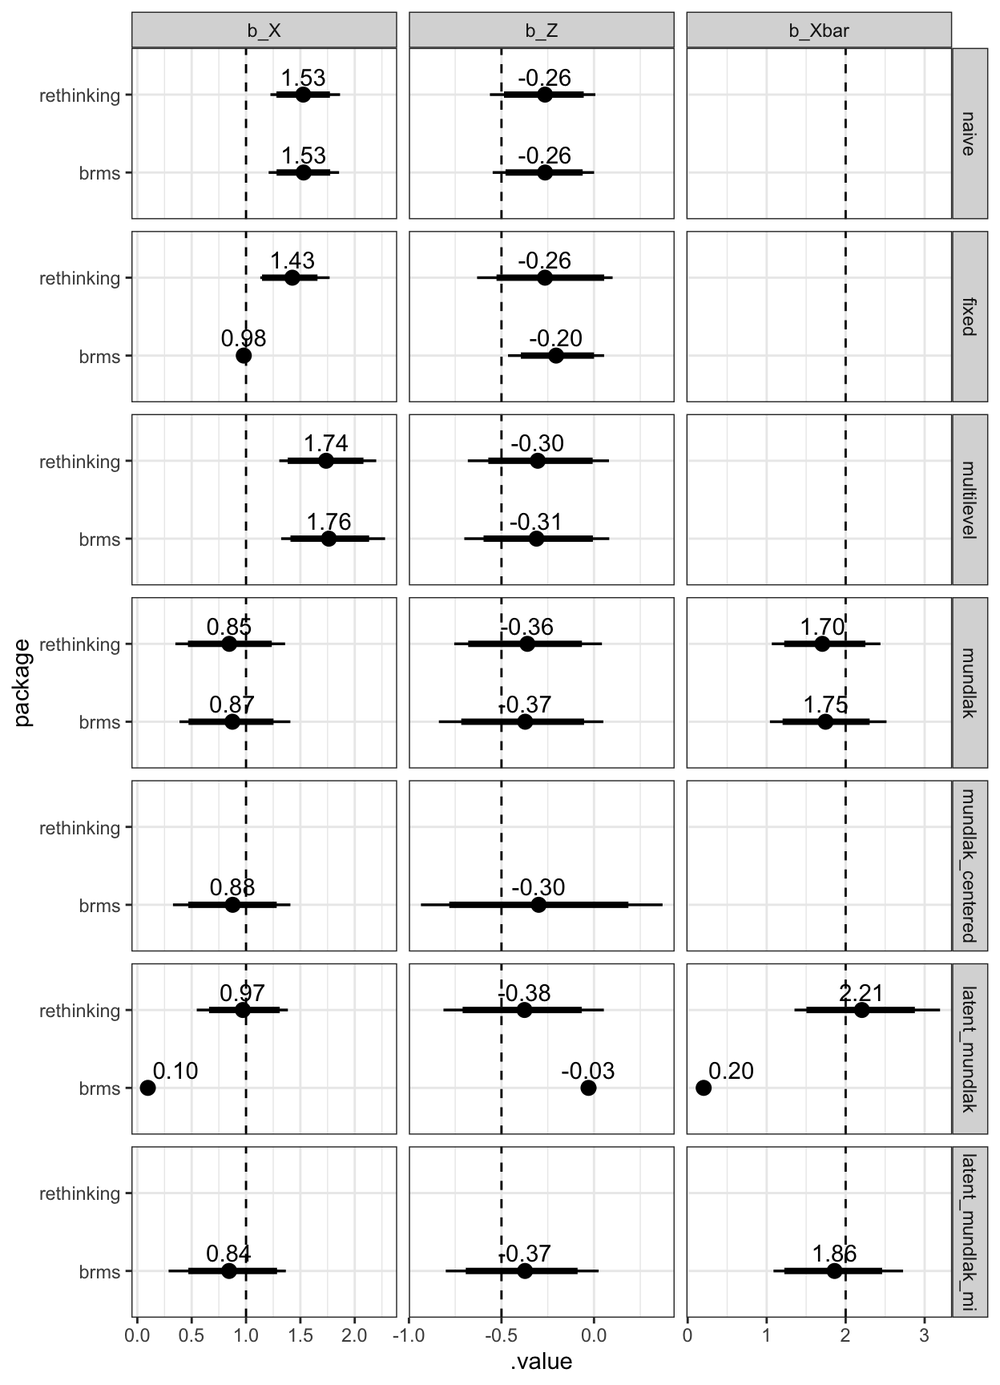
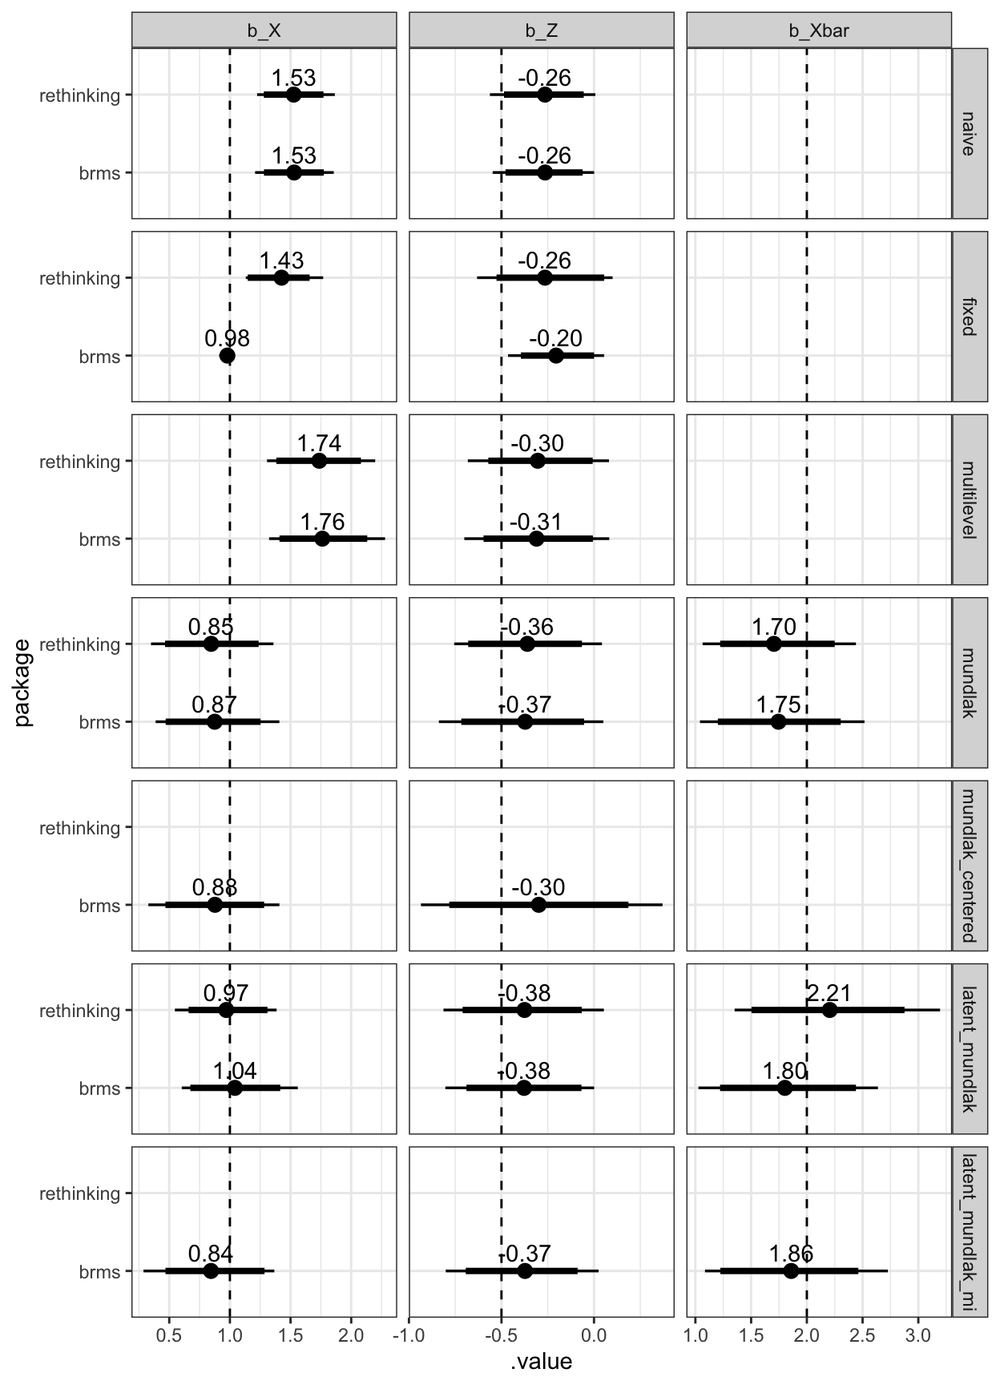
update with fixed `me` and `mi` for bernoulli exposure

diff --git a/_posts/2023-03-11-latent-group-mean-centering-revisited/latent-group-mean-centering-revisited.html b/_posts/2023-03-11-latent-group-mean-centering-revisited/latent-group-mean-centering-revisited.html
@@ -1580,23 +1580,31 @@ Show code
 </div>
 <a href="https://en.wikipedia.org/wiki/Yair_Mundlak">Yair Mundlak</a><a href="#fn4" class="footnote-ref" id="fnref4" role="doc-noteref"><sup>4</sup></a> in his Full Luxury Bayes outfit, courtesy of DALL-E.
 </aside>
-<p>My attempt at a solution:</p>
+<p>My two attempts at a solution:</p>
+<p>Using <code>me()</code></p>
+<ol type="1">
+<li>Calculate the group mean <code>Xbar</code>, e.g. <code>df %&gt;% group_by(id) %&gt;% mutate(Xbar = mean(X))</code>.</li>
+<li>Calculate the standard error of the mean , e.g. <code>df %&gt;% group_by(id) %&gt;% mutate(Xse = sd(X)/sqrt(n()))</code>.</li>
+<li>Adjust for the term <code>me(Xbar, Xse, gr = id)</code> explicitly specifying the grouping variable.</li>
+<li>Profit</li>
+</ol>
+<p>Using <code>mi()</code></p>
 <ol type="1">
 <li>Duplicating the exposure <code>X-&gt;X2</code></li>
 <li>Calculating the SE of the group mean outside the brms call</li>
-<li>Using the <code>X2 | mi(Xse)</code> syntax in brms to estimate the latent group mean with shrinkage.</li>
+<li>Using a second formula <code>bf(X2 | mi(Xse) ~ (1|id))</code> in brms to estimate the latent group mean with shrinkage.</li>
 <li>Adjusting for <code>mi(X2)</code> in the regression on <code>Y</code>.</li>
 </ol>
 <h2 id="how-did-it-go-high-level-summary">How did it go? <small style="font-size:0.7em;color:gray">High-level summary</small></h2>
-<p>My solution seems to work, but it’s a little hacky. I also see no straightforward way to implement within-group centering without an explicit adjustment for the latent group mean.</p>
 <ul>
-<li>My original plan, using the <code>me()</code> syntax did not work consistently, perhaps because there’s no shrinkage for the group means.</li>
-<li>My approach does not work for a non-Gaussian exposure <code>X</code>, because <code>mi()</code> is not implemented for e.g. binary variables.</li>
-<li>I never managed to create a simulated scenario where the latent Mundlak approach consistently outperforms the non-latent Mundlak for <code>b_X</code>. It improves estimates for <code>b_Xbar</code> (i.e. the group-level confound), so it’s doing what it’s supposed to, but that’s not really what we’re going for here. <code>b_X</code> is always already estimated close to the true value with a non-latent Mundlak model. I tried to create conditions to make outperformance likely (small group sizes, much within-subject variation in X relative to between-subject variation, so that Xbar poorly correlates with the group-level confound). <strong>Am I missing something in my simulations or is latent group mean centering rarely worth the effort?</strong> I’d be glad for any pointers. <strong>Edit:</strong> <a href="https://twitter.com/niclas_kuper">Niclas Kuper</a> gave me a pointer, so I have clarified above that we do not expect estimation of <code>b_X</code> to improve by using latent group means.</li>
+<li>My solutions seem to work, but they’re a little hacky. The <code>me</code> approach didn’t work for me at first until I specified the grouping variable, which makes sense.</li>
+<li>I had to add a constant <code>.01</code> to <code>Xse</code> when SE was zero (in my Bernoulli exposure simulation).</li>
+<li><code>mi()</code> cannot be combined with non-Gaussian variables. If I treat binary exposure <code>X</code> as Gaussian in a LPM, convergence was difficult and I had to fix the sigma to 0.01. The <code>me()</code> approach seems to work though. If I do all this, the three approaches (rethinking, me, mi) converge.</li>
+<li>I never managed to create a simulated scenaro where the latent Mundlak approach consistently outperforms the non-latent Mundlak for <code>b_X</code>. It improves estimates for <code>b_Xbar</code> (i.e. the group-level confound), so it’s doing what it’s supposed to, but <code>b_X</code> is always already estimated close to the true value with a non-latent Mundlak model. I tried to create conditions to make outperformance likely (small group sizes, much within-subject variation in X relative to between-subject variation, so that Xbar poorly correlates with the group-level confound). <strong>Am I missing something in my simulations or is latent group mean centering rarely worth the effort?</strong> I’d be glad for any pointers. <strong>Edit:</strong> <a href="https://twitter.com/niclas_kuper">Niclas Kuper</a> gave me the pointer I needed, so I have clarified above that we do not expect estimation of <code>b_X</code> to improve by using latent group means.</li>
 </ul>
 <p>The simulations and their results are documented in detail below. Click on the “Implementations” to see the model code.</p>
 <h2 id="bernoulli-simulations">Bernoulli simulations</h2>
-<p>I started with Richard’s simulations of a binary outcome. I was not able to reproduce his model performances exactly. Specifically, the latent Mundlak model does not outperform the non-latent Mundlak model by much, except if you care about <code>b_Xbar</code> (i.e. the group-level confound).</p>
+<p>I started with Richard’s simulations of a binary outcome. I was not able to reproduce his model performances exactly and ended up increasing the simulated sample size to make estimates a bit more stable (to more clearly show bias vs. variance).</p>
 <p>Up to the latent Mundlak model, the brms equivalents, perform, well, equivalently. For the latent Mundlak model, the brms gets slightly different coefficients, but a similar overall result.</p>
 <div class="layout-chunk" data-layout="l-body">
 <details>
@@ -1888,6 +1896,7 @@ Show code
 </summary>
 <div class="sourceCode">
 <pre class="sourceCode r"><code class="sourceCode r"><span><span class='va'>b_mru_gr</span> <span class='op'>&lt;-</span> <span class='fu'>brm</span><span class='op'>(</span><span class='va'>Y</span> <span class='op'>~</span> <span class='fl'>1</span> <span class='op'>+</span><span class='op'>(</span><span class='fl'>1</span><span class='op'>|</span><span class='va'>id</span><span class='op'>)</span> <span class='op'>+</span> <span class='va'>X</span> <span class='op'>+</span> <span class='va'>Z</span> <span class='op'>+</span> <span class='fu'>me</span><span class='op'>(</span><span class='va'>Xbar</span>, <span class='va'>Xse</span>, gr <span class='op'>=</span> <span class='va'>id</span><span class='op'>)</span>, data <span class='op'>=</span> <span class='va'>sim</span>, </span>
+<span>                family <span class='op'>=</span> <span class='fu'>bernoulli</span><span class='op'>(</span><span class='op'>)</span>,</span>
 <span>             prior <span class='op'>=</span> <span class='fu'><a href='https://rdrr.io/r/base/c.html'>c</a></span><span class='op'>(</span></span>
 <span>                 <span class='fu'>set_prior</span><span class='op'>(</span><span class='st'>"normal(0, 1)"</span>, class <span class='op'>=</span> <span class='st'>"b"</span>, coef <span class='op'>=</span> <span class='st'>"X"</span><span class='op'>)</span>,</span>
 <span>                 <span class='fu'>set_prior</span><span class='op'>(</span><span class='st'>"normal(0, 1)"</span>, class <span class='op'>=</span> <span class='st'>"b"</span>, coef <span class='op'>=</span> <span class='st'>"Z"</span><span class='op'>)</span>,</span>
@@ -2704,14 +2713,14 @@ Show code
 </summary>
 <div class="sourceCode">
 <pre class="sourceCode r"><code class="sourceCode r"><span><span class='va'>b_mru_mi</span> <span class='op'>&lt;-</span> <span class='fu'>brm</span><span class='op'>(</span><span class='fu'>bf</span><span class='op'>(</span><span class='va'>Y</span> <span class='op'>~</span> <span class='op'>(</span><span class='fl'>1</span><span class='op'>|</span><span class='va'>id</span><span class='op'>)</span> <span class='op'>+</span> <span class='va'>X</span> <span class='op'>+</span> <span class='va'>Z</span> <span class='op'>+</span> <span class='fu'>mi</span><span class='op'>(</span><span class='va'>X2</span><span class='op'>)</span><span class='op'>)</span> <span class='op'>+</span></span>
-<span>             <span class='fu'>bf</span><span class='op'>(</span><span class='va'>X2</span> <span class='op'>|</span> <span class='fu'>mi</span><span class='op'>(</span><span class='va'>Xse</span><span class='op'>)</span> <span class='op'>~</span> <span class='op'>(</span><span class='fl'>1</span><span class='op'>|</span><span class='va'>id</span><span class='op'>)</span>, family <span class='op'>=</span> <span class='fu'><a href='https://rdrr.io/r/stats/family.html'>gaussian</a></span><span class='op'>(</span><span class='op'>)</span><span class='op'>)</span>, data <span class='op'>=</span> <span class='va'>sim</span> <span class='op'>%&gt;%</span> <span class='fu'>mutate</span><span class='op'>(</span>Xse <span class='op'>=</span> <span class='fu'><a href='https://rdrr.io/r/base/mean.html'>mean</a></span><span class='op'>(</span><span class='va'>Xse</span><span class='op'>)</span><span class='op'>)</span>,</span>
+<span>             <span class='fu'>bf</span><span class='op'>(</span><span class='va'>X2</span> <span class='op'>|</span> <span class='fu'>mi</span><span class='op'>(</span><span class='va'>Xse</span><span class='op'>)</span> <span class='op'>~</span> <span class='op'>(</span><span class='fl'>1</span><span class='op'>|</span><span class='va'>id</span><span class='op'>)</span><span class='op'>)</span>, family <span class='op'>=</span> <span class='fu'><a href='https://rdrr.io/r/stats/family.html'>gaussian</a></span><span class='op'>(</span><span class='op'>)</span>, data <span class='op'>=</span> <span class='va'>sim</span> <span class='op'>%&gt;%</span> <span class='fu'>mutate</span><span class='op'>(</span>Xse <span class='op'>=</span> <span class='va'>Xse</span> <span class='op'>+</span> <span class='fl'>0.01</span><span class='op'>)</span>, iter <span class='op'>=</span> <span class='fl'>4000</span>,</span>
 <span>            prior <span class='op'>=</span> <span class='fu'><a href='https://rdrr.io/r/base/c.html'>c</a></span><span class='op'>(</span></span>
 <span>              <span class='fu'>set_prior</span><span class='op'>(</span><span class='st'>"normal(0, 1)"</span>, class <span class='op'>=</span> <span class='st'>"b"</span>, coef <span class='op'>=</span> <span class='st'>"X"</span>, resp <span class='op'>=</span> <span class='st'>"Y"</span><span class='op'>)</span>,</span>
 <span>              <span class='fu'>set_prior</span><span class='op'>(</span><span class='st'>"normal(0, 1)"</span>, class <span class='op'>=</span> <span class='st'>"b"</span>, coef <span class='op'>=</span> <span class='st'>"Z"</span>, resp <span class='op'>=</span> <span class='st'>"Y"</span><span class='op'>)</span>,</span>
 <span>              <span class='fu'>set_prior</span><span class='op'>(</span><span class='st'>"normal(0, 1)"</span>, class <span class='op'>=</span> <span class='st'>"b"</span>, coef <span class='op'>=</span> <span class='st'>"miX2"</span>, resp <span class='op'>=</span> <span class='st'>"Y"</span><span class='op'>)</span>,</span>
 <span>              <span class='fu'>set_prior</span><span class='op'>(</span><span class='st'>"exponential(1)"</span>, class <span class='op'>=</span> <span class='st'>"sd"</span>, resp <span class='op'>=</span> <span class='st'>"Y"</span><span class='op'>)</span>,</span>
 <span>              <span class='fu'>set_prior</span><span class='op'>(</span><span class='st'>"exponential(1)"</span>, class <span class='op'>=</span> <span class='st'>"sd"</span>, resp <span class='op'>=</span> <span class='st'>"X2"</span><span class='op'>)</span>,</span>
-<span>              <span class='fu'>set_prior</span><span class='op'>(</span><span class='st'>"exponential(1)"</span>, class <span class='op'>=</span> <span class='st'>"sigma"</span>, resp <span class='op'>=</span> <span class='st'>"X2"</span><span class='op'>)</span><span class='op'>)</span><span class='op'>)</span></span>
+<span>              <span class='fu'>set_prior</span><span class='op'>(</span><span class='st'>"constant(0.01)"</span>, class <span class='op'>=</span> <span class='st'>"sigma"</span>, resp <span class='op'>=</span> <span class='st'>"X2"</span><span class='op'>)</span><span class='op'>)</span><span class='op'>)</span></span>
 <span><span class='va'>b_mru_mi</span></span>
 <span></span>
 <span><span class='va'>b_mru_mi</span> <span class='op'>%&gt;%</span> <span class='fu'>gather_draws</span><span class='op'>(</span><span class='va'>b_Y_X</span>, <span class='va'>b_Y_Z</span><span class='op'>)</span> <span class='op'>%&gt;%</span> <span class='fu'>mean_hdci</span><span class='op'>(</span><span class='op'>)</span></span></code></pre>

diff --git a/posts/2023-03-11-latent-group-mean-centering-revisited/index.html b/posts/2023-03-11-latent-group-mean-centering-revisited/index.html
@@ -2254,23 +2254,31 @@ Show code
 </div>
 <a href="https://en.wikipedia.org/wiki/Yair_Mundlak">Yair Mundlak</a><a href="#fn4" class="footnote-ref" id="fnref4" role="doc-noteref"><sup>4</sup></a> in his Full Luxury Bayes outfit, courtesy of DALL-E.
 </aside>
-<p>My attempt at a solution:</p>
+<p>My two attempts at a solution:</p>
+<p>Using <code>me()</code></p>
+<ol type="1">
+<li>Calculate the group mean <code>Xbar</code>, e.g. <code>df %&gt;% group_by(id) %&gt;% mutate(Xbar = mean(X))</code>.</li>
+<li>Calculate the standard error of the mean , e.g. <code>df %&gt;% group_by(id) %&gt;% mutate(Xse = sd(X)/sqrt(n()))</code>.</li>
+<li>Adjust for the term <code>me(Xbar, Xse, gr = id)</code> explicitly specifying the grouping variable.</li>
+<li>Profit</li>
+</ol>
+<p>Using <code>mi()</code></p>
 <ol type="1">
 <li>Duplicating the exposure <code>X-&gt;X2</code></li>
 <li>Calculating the SE of the group mean outside the brms call</li>
-<li>Using the <code>X2 | mi(Xse)</code> syntax in brms to estimate the latent group mean with shrinkage.</li>
+<li>Using a second formula <code>bf(X2 | mi(Xse) ~ (1|id))</code> in brms to estimate the latent group mean with shrinkage.</li>
 <li>Adjusting for <code>mi(X2)</code> in the regression on <code>Y</code>.</li>
 </ol>
 <h2 id="how-did-it-go-high-level-summary">How did it go? <small style="font-size:0.7em;color:gray">High-level summary</small></h2>
-<p>My solution seems to work, but it’s a little hacky. I also see no straightforward way to implement within-group centering without an explicit adjustment for the latent group mean.</p>
 <ul>
-<li>My original plan, using the <code>me()</code> syntax did not work consistently, perhaps because there’s no shrinkage for the group means.</li>
-<li>My approach does not work for a non-Gaussian exposure <code>X</code>, because <code>mi()</code> is not implemented for e.g. binary variables.</li>
-<li>I never managed to create a simulated scenario where the latent Mundlak approach consistently outperforms the non-latent Mundlak for <code>b_X</code>. It improves estimates for <code>b_Xbar</code> (i.e. the group-level confound), so it’s doing what it’s supposed to, but that’s not really what we’re going for here. <code>b_X</code> is always already estimated close to the true value with a non-latent Mundlak model. I tried to create conditions to make outperformance likely (small group sizes, much within-subject variation in X relative to between-subject variation, so that Xbar poorly correlates with the group-level confound). <strong>Am I missing something in my simulations or is latent group mean centering rarely worth the effort?</strong> I’d be glad for any pointers. <strong>Edit:</strong> <a href="https://twitter.com/niclas_kuper">Niclas Kuper</a> gave me a pointer, so I have clarified above that we do not expect estimation of <code>b_X</code> to improve by using latent group means.</li>
+<li>My solutions seem to work, but they’re a little hacky. The <code>me</code> approach didn’t work for me at first until I specified the grouping variable, which makes sense.</li>
+<li>I had to add a constant <code>.01</code> to <code>Xse</code> when SE was zero (in my Bernoulli exposure simulation).</li>
+<li><code>mi()</code> cannot be combined with non-Gaussian variables. If I treat binary exposure <code>X</code> as Gaussian in a LPM, convergence was difficult and I had to fix the sigma to 0.01. The <code>me()</code> approach seems to work though. If I do all this, the three approaches (rethinking, me, mi) converge.</li>
+<li>I never managed to create a simulated scenaro where the latent Mundlak approach consistently outperforms the non-latent Mundlak for <code>b_X</code>. It improves estimates for <code>b_Xbar</code> (i.e. the group-level confound), so it’s doing what it’s supposed to, but <code>b_X</code> is always already estimated close to the true value with a non-latent Mundlak model. I tried to create conditions to make outperformance likely (small group sizes, much within-subject variation in X relative to between-subject variation, so that Xbar poorly correlates with the group-level confound). <strong>Am I missing something in my simulations or is latent group mean centering rarely worth the effort?</strong> I’d be glad for any pointers. <strong>Edit:</strong> <a href="https://twitter.com/niclas_kuper">Niclas Kuper</a> gave me the pointer I needed, so I have clarified above that we do not expect estimation of <code>b_X</code> to improve by using latent group means.</li>
 </ul>
 <p>The simulations and their results are documented in detail below. Click on the “Implementations” to see the model code.</p>
 <h2 id="bernoulli-simulations">Bernoulli simulations</h2>
-<p>I started with Richard’s simulations of a binary outcome. I was not able to reproduce his model performances exactly. Specifically, the latent Mundlak model does not outperform the non-latent Mundlak model by much, except if you care about <code>b_Xbar</code> (i.e. the group-level confound).</p>
+<p>I started with Richard’s simulations of a binary outcome. I was not able to reproduce his model performances exactly and ended up increasing the simulated sample size to make estimates a bit more stable (to more clearly show bias vs. variance).</p>
 <p>Up to the latent Mundlak model, the brms equivalents, perform, well, equivalently. For the latent Mundlak model, the brms gets slightly different coefficients, but a similar overall result.</p>
 <div class="layout-chunk" data-layout="l-body">
 <details>
@@ -2562,6 +2570,7 @@ Show code
 </summary>
 <div class="sourceCode">
 <pre class="sourceCode r"><code class="sourceCode r"><span><span class='va'>b_mru_gr</span> <span class='op'>&lt;-</span> <span class='fu'>brm</span><span class='op'>(</span><span class='va'>Y</span> <span class='op'>~</span> <span class='fl'>1</span> <span class='op'>+</span><span class='op'>(</span><span class='fl'>1</span><span class='op'>|</span><span class='va'>id</span><span class='op'>)</span> <span class='op'>+</span> <span class='va'>X</span> <span class='op'>+</span> <span class='va'>Z</span> <span class='op'>+</span> <span class='fu'>me</span><span class='op'>(</span><span class='va'>Xbar</span>, <span class='va'>Xse</span>, gr <span class='op'>=</span> <span class='va'>id</span><span class='op'>)</span>, data <span class='op'>=</span> <span class='va'>sim</span>, </span>
+<span>                family <span class='op'>=</span> <span class='fu'>bernoulli</span><span class='op'>(</span><span class='op'>)</span>,</span>
 <span>             prior <span class='op'>=</span> <span class='fu'><a href='https://rdrr.io/r/base/c.html'>c</a></span><span class='op'>(</span></span>
 <span>                 <span class='fu'>set_prior</span><span class='op'>(</span><span class='st'>"normal(0, 1)"</span>, class <span class='op'>=</span> <span class='st'>"b"</span>, coef <span class='op'>=</span> <span class='st'>"X"</span><span class='op'>)</span>,</span>
 <span>                 <span class='fu'>set_prior</span><span class='op'>(</span><span class='st'>"normal(0, 1)"</span>, class <span class='op'>=</span> <span class='st'>"b"</span>, coef <span class='op'>=</span> <span class='st'>"Z"</span><span class='op'>)</span>,</span>
@@ -3378,14 +3387,14 @@ Show code
 </summary>
 <div class="sourceCode">
 <pre class="sourceCode r"><code class="sourceCode r"><span><span class='va'>b_mru_mi</span> <span class='op'>&lt;-</span> <span class='fu'>brm</span><span class='op'>(</span><span class='fu'>bf</span><span class='op'>(</span><span class='va'>Y</span> <span class='op'>~</span> <span class='op'>(</span><span class='fl'>1</span><span class='op'>|</span><span class='va'>id</span><span class='op'>)</span> <span class='op'>+</span> <span class='va'>X</span> <span class='op'>+</span> <span class='va'>Z</span> <span class='op'>+</span> <span class='fu'>mi</span><span class='op'>(</span><span class='va'>X2</span><span class='op'>)</span><span class='op'>)</span> <span class='op'>+</span></span>
-<span>             <span class='fu'>bf</span><span class='op'>(</span><span class='va'>X2</span> <span class='op'>|</span> <span class='fu'>mi</span><span class='op'>(</span><span class='va'>Xse</span><span class='op'>)</span> <span class='op'>~</span> <span class='op'>(</span><span class='fl'>1</span><span class='op'>|</span><span class='va'>id</span><span class='op'>)</span>, family <span class='op'>=</span> <span class='fu'><a href='https://rdrr.io/r/stats/family.html'>gaussian</a></span><span class='op'>(</span><span class='op'>)</span><span class='op'>)</span>, data <span class='op'>=</span> <span class='va'>sim</span> <span class='op'>%&gt;%</span> <span class='fu'>mutate</span><span class='op'>(</span>Xse <span class='op'>=</span> <span class='fu'><a href='https://rdrr.io/r/base/mean.html'>mean</a></span><span class='op'>(</span><span class='va'>Xse</span><span class='op'>)</span><span class='op'>)</span>,</span>
+<span>             <span class='fu'>bf</span><span class='op'>(</span><span class='va'>X2</span> <span class='op'>|</span> <span class='fu'>mi</span><span class='op'>(</span><span class='va'>Xse</span><span class='op'>)</span> <span class='op'>~</span> <span class='op'>(</span><span class='fl'>1</span><span class='op'>|</span><span class='va'>id</span><span class='op'>)</span><span class='op'>)</span>, family <span class='op'>=</span> <span class='fu'><a href='https://rdrr.io/r/stats/family.html'>gaussian</a></span><span class='op'>(</span><span class='op'>)</span>, data <span class='op'>=</span> <span class='va'>sim</span> <span class='op'>%&gt;%</span> <span class='fu'>mutate</span><span class='op'>(</span>Xse <span class='op'>=</span> <span class='va'>Xse</span> <span class='op'>+</span> <span class='fl'>0.01</span><span class='op'>)</span>, iter <span class='op'>=</span> <span class='fl'>4000</span>,</span>
 <span>            prior <span class='op'>=</span> <span class='fu'><a href='https://rdrr.io/r/base/c.html'>c</a></span><span class='op'>(</span></span>
 <span>              <span class='fu'>set_prior</span><span class='op'>(</span><span class='st'>"normal(0, 1)"</span>, class <span class='op'>=</span> <span class='st'>"b"</span>, coef <span class='op'>=</span> <span class='st'>"X"</span>, resp <span class='op'>=</span> <span class='st'>"Y"</span><span class='op'>)</span>,</span>
 <span>              <span class='fu'>set_prior</span><span class='op'>(</span><span class='st'>"normal(0, 1)"</span>, class <span class='op'>=</span> <span class='st'>"b"</span>, coef <span class='op'>=</span> <span class='st'>"Z"</span>, resp <span class='op'>=</span> <span class='st'>"Y"</span><span class='op'>)</span>,</span>
 <span>              <span class='fu'>set_prior</span><span class='op'>(</span><span class='st'>"normal(0, 1)"</span>, class <span class='op'>=</span> <span class='st'>"b"</span>, coef <span class='op'>=</span> <span class='st'>"miX2"</span>, resp <span class='op'>=</span> <span class='st'>"Y"</span><span class='op'>)</span>,</span>
 <span>              <span class='fu'>set_prior</span><span class='op'>(</span><span class='st'>"exponential(1)"</span>, class <span class='op'>=</span> <span class='st'>"sd"</span>, resp <span class='op'>=</span> <span class='st'>"Y"</span><span class='op'>)</span>,</span>
 <span>              <span class='fu'>set_prior</span><span class='op'>(</span><span class='st'>"exponential(1)"</span>, class <span class='op'>=</span> <span class='st'>"sd"</span>, resp <span class='op'>=</span> <span class='st'>"X2"</span><span class='op'>)</span>,</span>
-<span>              <span class='fu'>set_prior</span><span class='op'>(</span><span class='st'>"exponential(1)"</span>, class <span class='op'>=</span> <span class='st'>"sigma"</span>, resp <span class='op'>=</span> <span class='st'>"X2"</span><span class='op'>)</span><span class='op'>)</span><span class='op'>)</span></span>
+<span>              <span class='fu'>set_prior</span><span class='op'>(</span><span class='st'>"constant(0.01)"</span>, class <span class='op'>=</span> <span class='st'>"sigma"</span>, resp <span class='op'>=</span> <span class='st'>"X2"</span><span class='op'>)</span><span class='op'>)</span><span class='op'>)</span></span>
 <span><span class='va'>b_mru_mi</span></span>
 <span></span>
 <span><span class='va'>b_mru_mi</span> <span class='op'>%&gt;%</span> <span class='fu'>gather_draws</span><span class='op'>(</span><span class='va'>b_Y_X</span>, <span class='va'>b_Y_Z</span><span class='op'>)</span> <span class='op'>%&gt;%</span> <span class='fu'>mean_hdci</span><span class='op'>(</span><span class='op'>)</span></span></code></pre>
